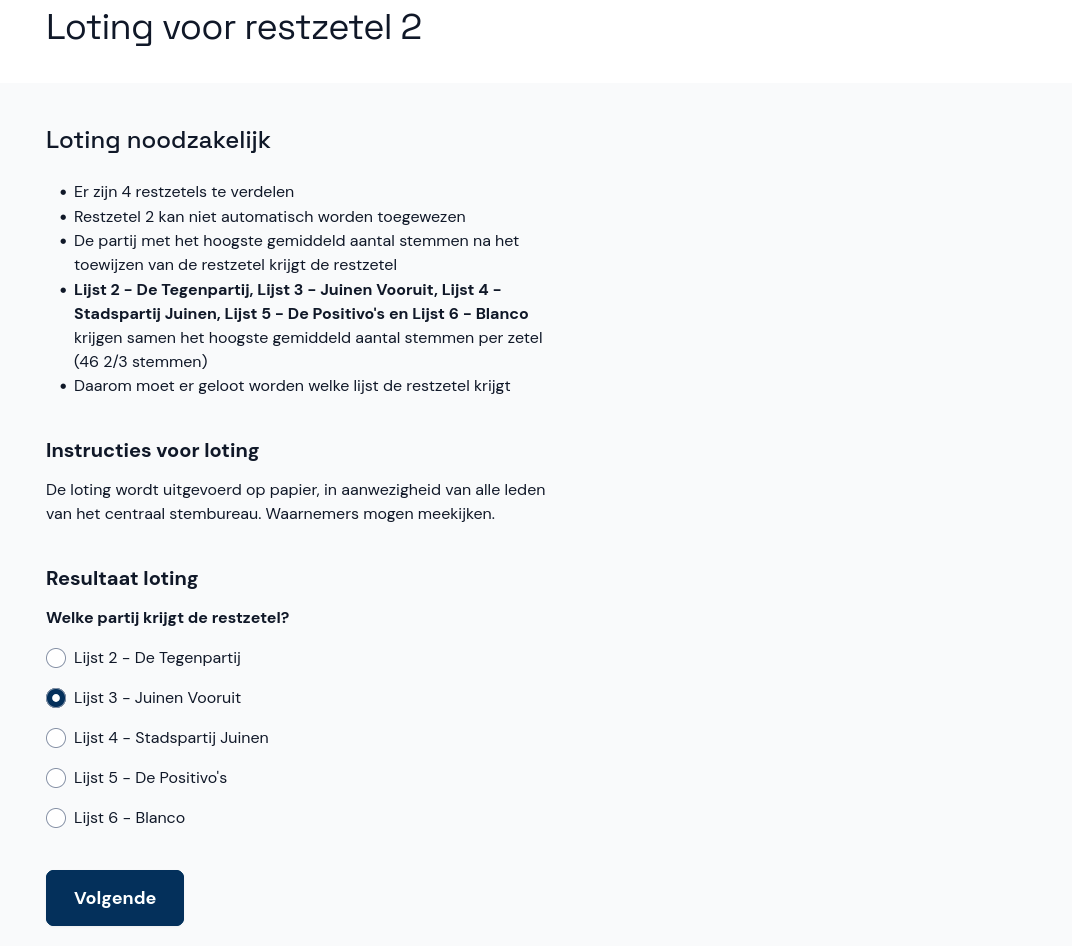
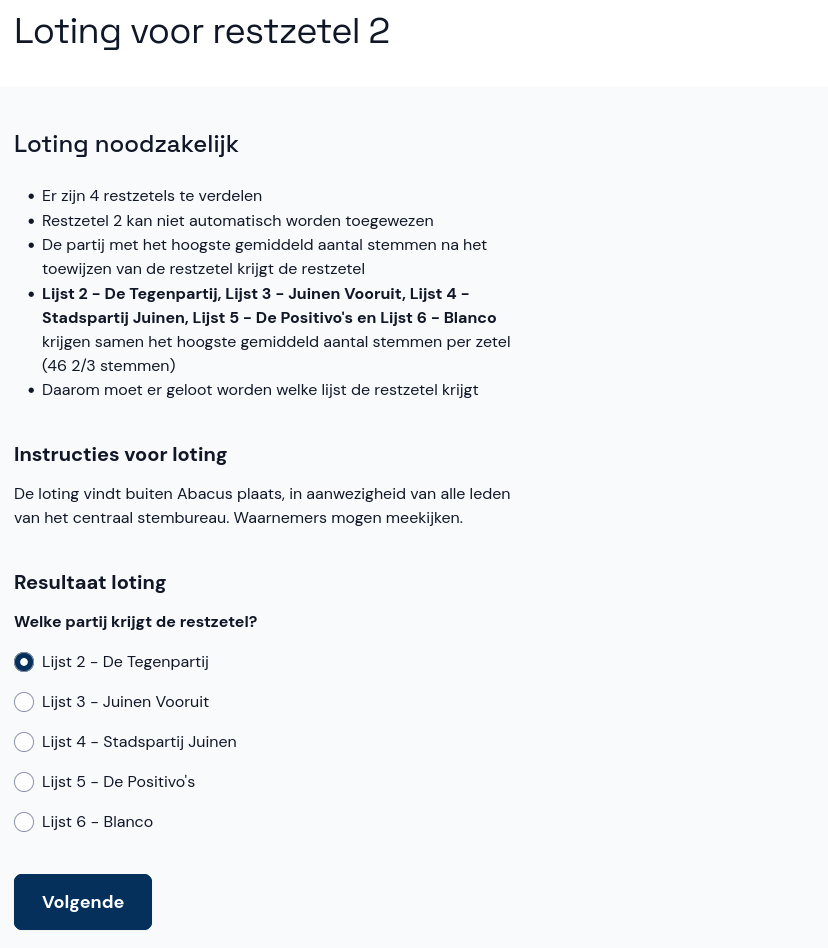
Comments verwerkt - 3
- Tekst readme nog iets aangepast
- Afbeelding vervangen door afbeelding met de juiste tekst
- Naam andere afbeelding gewijzigd

diff --git a/gebruikersdocumentatie/src/coordinator-csb/README.md b/gebruikersdocumentatie/src/coordinator-csb/README.md
@@ -2,8 +2,7 @@
 
 Abacus is ontwikkeld ter ondersteuning van het optellen van stembureautotalen.
 De software controleert de handmatige tellingen en telt per niveau de resultaten van de onderliggende niveaus bij elkaar op, zodat tel- en schrijffouten kunnen worden gedetecteerd en voorkomen.
+
 In dit document leggen we uit hoe je Abacus gebruikt als coördinator bij het centraal stembureau.
 
-Eerst worden de getallen van het gemeentelijk stembureau geïmporteerd. Daarna kan een invoerder alle getallen nogmaals handmatig invoeren.
-
-Wanneer de invoer klaar is, rond je de invoerfase af. Abacus berekent dan de zetelverdeling. Na afronding kun je het proces-verbaal samen met het EML-telbestand downloaden.
+Het proces-verbaal van het gemeentelijk stembureau moet twee keer met de hand worden ingevoerd door twee verschillende invoerders. Wanneer de invoer klaar is, rond je de invoerfase af. Abacus berekent dan de zetelverdeling. Na afronding kun je het proces-verbaal samen met het EML-telbestand downloaden.

diff --git a/gebruikersdocumentatie/src/coordinator-csb/zitting-afronden/loting-pv.md b/gebruikersdocumentatie/src/coordinator-csb/zitting-afronden/loting-pv.md
@@ -4,7 +4,7 @@ Als alle zetels zijn toegewezen, hoef je niets meer te doen en kun je direct doo
 
 In sommige gevallen kunnen niet alle restzetels automatisch worden toegewezen en is loting nodig. In een geel vak staat aangegeven waarom de loting noodzakelijk is en hoeveel restzetels op deze manier moeten worden toegewezen.
 
-![Loting is noodzakelijk](./img/loting%20noodzakelijk.png)
+![Loting is noodzakelijk](./img/loting-noodzakelijk.png)
 
 ## Naar loting
 